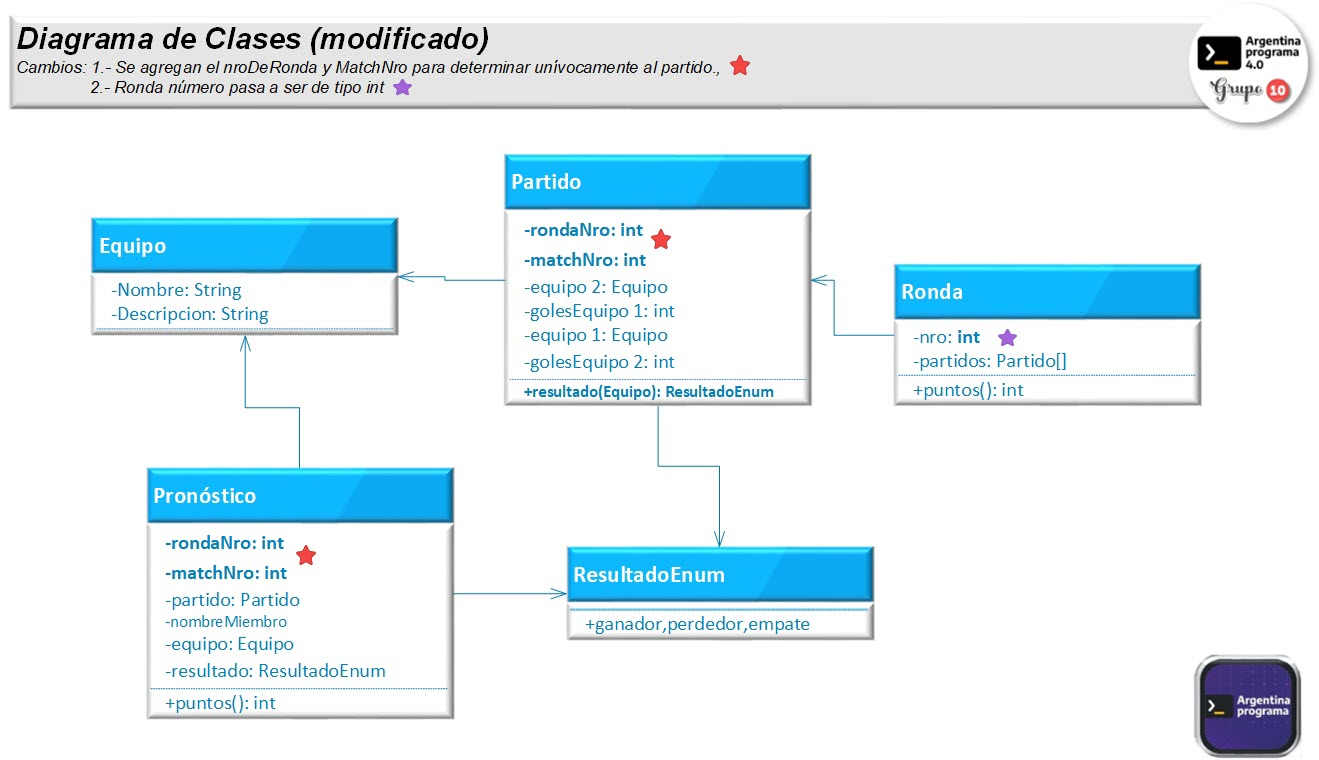
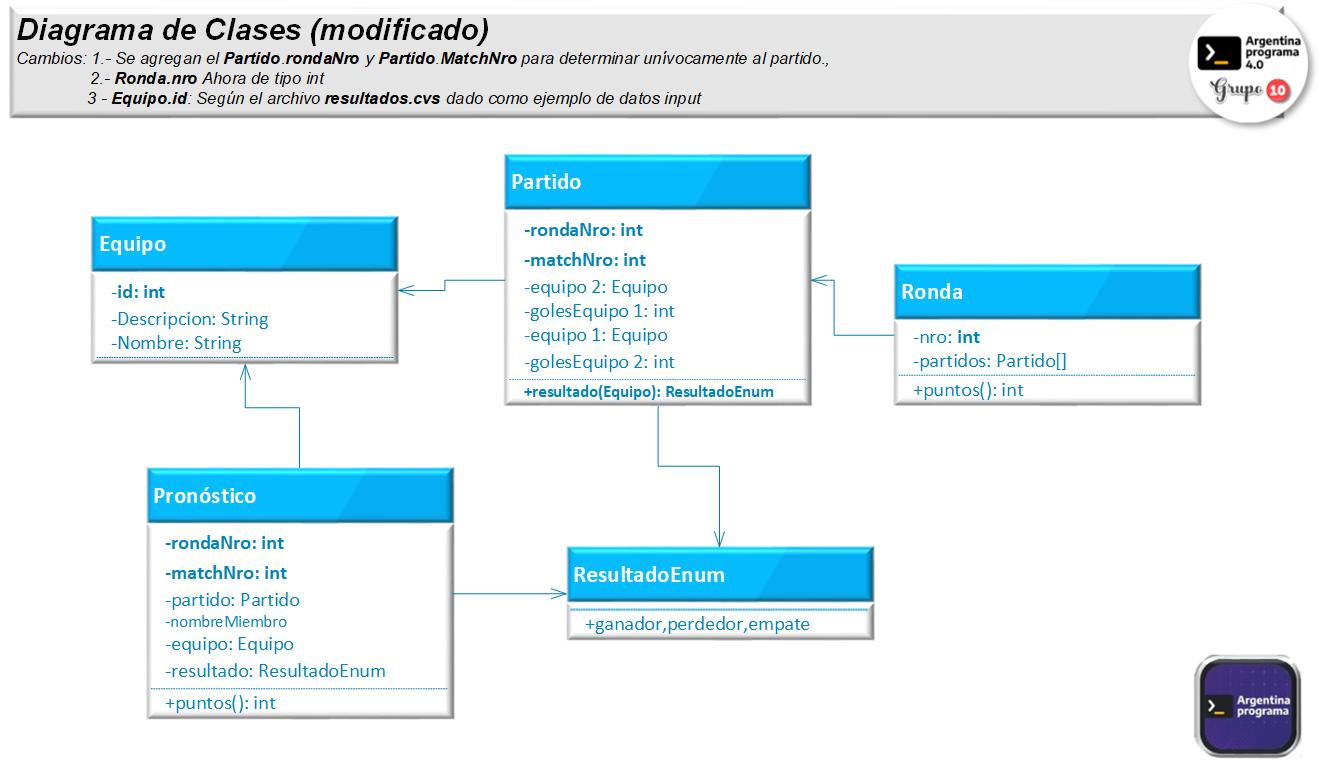
leer resultados

diff --git a/src/App/App.java b/src/App/App.java
@@ -9,20 +9,29 @@ import java.util.List;
 public class App {
 
     // public  List<Partido> partidosList = new ArrayList<Partido>();
-   // public  List<Pronostico> pronosticosList = new ArrayList<Pronostico>();
+    // public  List<Pronostico> pronosticosList = new ArrayList<Pronostico>();
 
     public static  void main(String[] args) throws Exception {
 
         // Leo los resultados y obtengo un array de los pronosticos
         List<Partido> partidosList = leerResultados();
-        List<Pronostico> pronosticosList = leerPronosticos(partidosList);
-        
-        // Calculo los puntos
-        int puntos= 0;
-        for (Pronostico p : pronosticosList ) {
-             puntos += p.getPuntos();
+        for (Partido p : partidosList ) {
+            System.out.println(p.toString());
         }
-        System.out.println("Puntos obtenidos: " + puntos);        
+        // List<Pronostico> pronosticosList = leerPronosticos(partidosList);
+
+        // // Calculo los puntos
+        // int puntos= 0;
+        // if (pronosticosList != null) {
+        //     for (Pronostico p : pronosticosList ) {
+        //         puntos += p.getPuntos();
+        //     }
+        //     System.out.println("Puntos obtenidos: " + puntos);  
+        // }else{
+        //     System.out.println("No se pudo leer el archivo de pronosticos");
+        // }
+        
+       
     }
 
     static List<Partido> leerResultados() {
@@ -31,32 +40,59 @@ public class App {
         int nroDeMatch = 0; // inicializo en 0, por def el archivo viene en orden
        // Ronda ronda = new Ronda(nroDeRonda, null);
         Scanner scResu = null;
-   
-        File resultados = new File("C:\\Users\\Willy\\Desktop\\TrabajoPrácticoIntegrador\\PronosticosDeportivos\\PronDep\\resultados.csv");
+        String[] datos = null;
+        File resultados = new File("C:\\Users\\Willy\\Desktop\\VSCProjects\\PronosticosDeportivos\\src\\App\\resultados.csv");
+        
         // leer archivo resultados.cvs y lo guardo en una coleccion de objetos Partido
         List<Partido> partidosList = new ArrayList<Partido>();
         try {
             scResu = new Scanner(resultados);
+            scResu.nextLine(); // salteo encabezados
+            System.out.println();
+              //  Ejemplo: 1;Argentina;Seleccionado;1;2;2;Arabia Saudita;Seleccionado
+                int id_equip1 = 0;
+                String equipo1 = "";
+                String descrip1 = "";
+                int goles1 = 0;
+                int goles2 = 0;
+                int id_equip2 = 0;
+                String equipo2 = "";
+                String descrip2 = "";
+                //preparo 2 variables auxiliares para crear los objetos de los equipos
+                Equipo equipo1Aux;
+                Equipo equipo2Aux;
+
+           
             while (scResu.hasNextLine()) {
                 nroDeMatch++;        
                 // Objetivo1, crear los objetos de la info que se encuentran en el archivo resultados.csv
-                String[] datos = scResu.nextLine().split(",");
+                datos = scResu.nextLine().split(";");
                 // leo datos
 
-                int    goles1  = Integer.parseInt(datos[1]);
-                int    goles2  = Integer.parseInt(datos[3]);
+                id_equip1 = Integer.parseInt(datos[0]);
+                equipo1 = datos[1];
+                descrip1 = datos[2];
+                goles1 = Integer.parseInt(datos[3]);
+                goles2 = Integer.parseInt(datos[4]);
+                id_equip2 = Integer.parseInt(datos[5]);
+                equipo2 = datos[6];
+                descrip2 = datos[7];
       
                 // agrego el partido al array de partidos
-            
-                partidosList.add(new Partido(new Equipo(datos[0], ""), new Equipo(datos[2], ""), goles1, goles2, nroDeRonda, nroDeMatch));
+                equipo1Aux = new Equipo(id_equip1,equipo1,descrip1);
+                equipo2Aux = new Equipo(id_equip2,equipo2,descrip2);
+                partidosList.add(new Partido( equipo1Aux, equipo2Aux, goles1, goles2, nroDeRonda, nroDeMatch));
             }
-            scResu.close();         
+                scResu.close();         
             return partidosList;
-        } catch (FileNotFoundException e) {
+        } 
+          catch (FileNotFoundException e) {
             e.printStackTrace();
             return null;
         } 
-    } 
+    }
+
+
 
     static List<Pronostico> leerPronosticos(List<Partido> partidosList) {
 
@@ -65,8 +101,8 @@ public class App {
    //   Ronda ronda = new Ronda(nroDeRonda, null);
       ResultadoEnum resultado = null;
 
-      Equipo equipoUno = new Equipo(null, null);
-      Equipo equipoDos = new Equipo(null, null);
+      Equipo equipoUno;
+      Equipo equipoDos;
       int indice;
       int nroDeMatch = 0;
       // inicializo variables
@@ -74,7 +110,7 @@ public class App {
 
 
       Pronostico pronostico = new Pronostico(null, null, null, nroDeRonda, 0);
-      File pronosticos = new File("C:\\Users\\Willy\\Desktop\\TrabajoPrácticoIntegrador\\PronosticosDeportivos\\PronDep\\pronosticos.csv");
+      File pronosticos = new File("C:\\Users\\Willy\\Desktop\\VSCProjects\\PronosticosDeportivos\\src\\App\\pronostico.csv");
       Scanner scPron = null;        
       List<Pronostico> pronosticosList = new ArrayList<Pronostico>();
       try {

diff --git a/src/App/Equipo.java b/src/App/Equipo.java
@@ -1,17 +1,26 @@
 package App;
 public class Equipo {
+    private int id;
     private String nombre;
     private String descripcion;
 
-    public Equipo(String nombre, String descripcion) {
+    public Equipo( int id, String nombre, String descripcion) {
+        this.id = id;
         this.nombre = nombre;
         this.descripcion = descripcion;
+
+    }
+    public int getId() {
+        return this.id;
     }
     public String getNombre() {
         return this.nombre;
     }
     public String getDescripcion() {
         return this.descripcion;
+    }
+    public void setId(int id) {
+        this.id = id;
     }
     public void setNombre(String nombre) {
         this.nombre = nombre;
